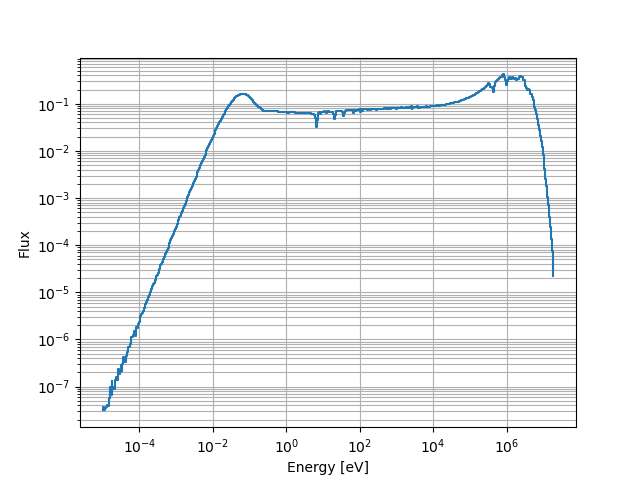
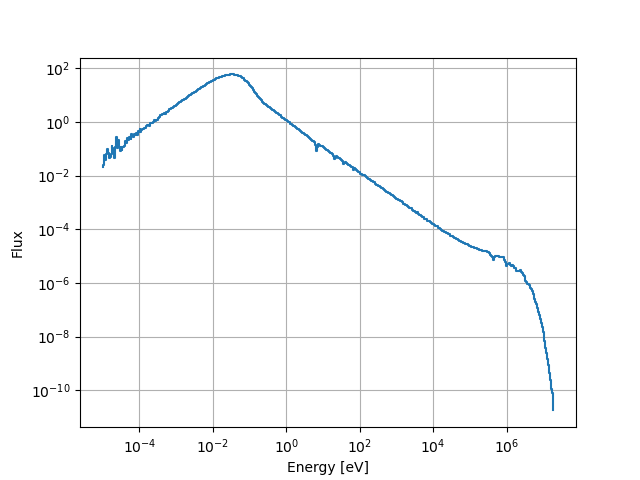
Normalized spectrum for plotting

Changed region(s): [[0.0, 0.125, 0.9062, 0.875]]

diff --git a/02_lwr_pincell/completed/pincell.py b/02_lwr_pincell/completed/pincell.py
@@ -39,7 +39,6 @@ borated_water.add_s_alpha_beta("c_H_in_H2O")
 
 # Collect the materials together and export to XML
 materials = openmc.Materials([uo2, helium, zircaloy, borated_water])
-materials.export_to_xml()
 
 
 ### GEOMETRY ###
@@ -61,7 +60,6 @@ water = openmc.Cell(fill=borated_water, region=+clad_or & -box)
 
 # Create a geometry and export to XML
 geometry = openmc.Geometry([fuel, gap, clad, water])
-geometry.export_to_xml()
 
 
 ### SETTINGS ###
@@ -80,7 +78,6 @@ settings.source = openmc.IndependentSource(
     space=uniform_dist, constraints={"fissionable": True}
 )
 
-settings.export_to_xml()
 
 ### TALLIES ###
 
@@ -97,7 +94,7 @@ spectrum_tally.scores = ["flux"]
 
 # Instantiate a Tallies collection and export to XML
 tallies = openmc.Tallies([spectrum_tally])
-tallies.export_to_xml()
+
 
 ### PLOTS ###
 # x-y cross section plot
@@ -132,16 +129,15 @@ with openmc.StatePoint(f"statepoint.{settings.batches}.h5") as sp:
     t: openmc.Tally = sp.get_tally(name="Flux spectrum")
 
     # Get the energies from the energy filter
-    energy_filter = t.filters[0]
-    energies = energy_filter.bins[:, 0]
+    energy_filter: openmc.EnergyFilter = t.filters[0]
 
     # Get the flux values
-    mean = t.get_values(value="mean").ravel()
-    uncertainty = t.get_values(value="std_dev").ravel()
+    mean = t.get_values(value="mean").ravel() / np.diff(energies)
+    uncertainty = t.get_values(value="std_dev").ravel() / np.diff(energies)
 
 # Plot flux spectrum
 fix, ax = plt.subplots()
-ax.loglog(energies, mean, drawstyle="steps-post")
+ax.loglog(energy_filter.bins[:, 0], mean, drawstyle="steps-post")
 ax.set_xlabel("Energy [eV]")
 ax.set_ylabel("Flux")
 ax.grid(True, which="both")

diff --git a/02_lwr_pincell/pincell.py b/02_lwr_pincell/pincell.py
@@ -39,7 +39,6 @@ borated_water.add_element("O", 2.4e-2)
 
 # Collect the materials together and export to XML
 materials = openmc.Materials([uo2, helium, zircaloy, borated_water])
-materials.export_to_xml()
 
 
 ### GEOMETRY ###
@@ -104,16 +103,15 @@ with openmc.StatePoint(f"statepoint.{settings.batches}.h5") as sp:
     t: openmc.Tally = sp.get_tally(name="Flux spectrum")
 
     # Get the energies from the energy filter
-    energy_filter = t.filters[0]
-    energies = energy_filter.bins[:, 0]
+    energy_filter: openmc.EnergyFilter = t.filters[0]
 
     # Get the flux values
-    mean = t.get_values(value="mean").ravel()
-    uncertainty = t.get_values(value="std_dev").ravel()
+    mean = t.get_values(value="mean").ravel() / np.diff(energies)
+    uncertainty = t.get_values(value="std_dev").ravel() / np.diff(energies)
 
 # Plot flux spectrum
 fix, ax = plt.subplots()
-ax.loglog(energies, mean, drawstyle="steps-post")
+ax.loglog(energy_filter.bins[:, 0], mean, drawstyle="steps-post")
 ax.set_xlabel("Energy [eV]")
 ax.set_ylabel("Flux")
 ax.grid(True, which="both")
